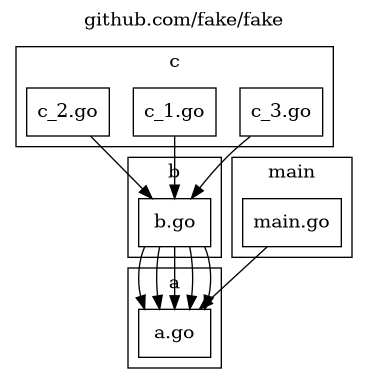
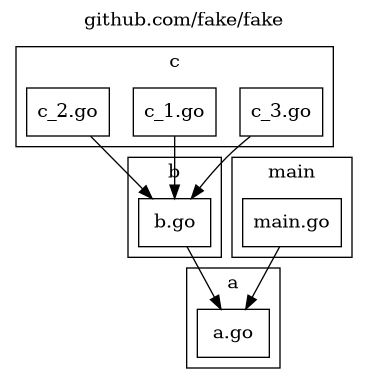
Do not show multiple edges when an import references multiple items

Changed region(s): [[0.3288, 0.625, 0.7772, 0.9688]]

diff --git a/internal/dot/file_resolution.go b/internal/dot/file_resolution.go
@@ -7,6 +7,11 @@ import (
 	"github.com/samlitowitz/godepvis/internal/color"
 )
 
+const (
+	fileResolutionEdgeDef = `
+		"%s" -> "%s" [color="%s"];`
+)
+
 func writeNodeDefsForFileResolution(buf *bytes.Buffer, palette *color.Palette, pkgs []*internal.Package) {
 	var err error
 	clusterDefHeader := `
@@ -76,10 +81,11 @@ func writeNodeDefsForFileResolution(buf *bytes.Buffer, palette *color.Palette, p
 	}
 }
 
-func writeRelationshipsForFileResolution(buf *bytes.Buffer, palette *color.Palette, pkgs []*internal.Package) {
-	var err error
-	edgeDef := `
-	"%s" -> "%s" [color="%s"];`
+func writeRelationshipsForFileResolution(showMultipleReferences bool, buf *bytes.Buffer, palette *color.Palette, pkgs []*internal.Package) {
+	writeEdgesFn := showOneReferencePerFileImportForFileResolution
+	if showMultipleReferences {
+		writeEdgesFn = showMultipleReferencesPerFileImportForFileResolution
+	}
 
 	for _, pkg := range pkgs {
 		if pkg.IsStub {
@@ -89,30 +95,65 @@ func writeRelationshipsForFileResolution(buf *bytes.Buffer, palette *color.Palet
 			if file.IsStub {
 				continue
 			}
-			for _, imp := range file.Imports {
-				if imp.Package == nil {
-					continue
-				}
-				if imp.Package.IsStub {
-					continue
-				}
-				for _, refTyp := range imp.ReferencedTypes {
-					arrowColor := palette.Base.ImportArrow
-					if _, ok := imp.ReferencedFilesInCycle[refTyp.File.UID()]; ok {
-						arrowColor = palette.Cycle.ImportArrow
-					}
-					_, err = fmt.Fprintf(
-						buf,
-						edgeDef,
-						fileNodeName(file),
-						fileNodeName(refTyp.File),
-						arrowColor.Hex(),
-					)
-					if err != nil {
-						panic(err)
-					}
-				}
+			writeEdgesFn(buf, palette, file)
+		}
+	}
+}
+
+func showMultipleReferencesPerFileImportForFileResolution(buf *bytes.Buffer, palette *color.Palette, file *internal.File) {
+	var err error
+	for _, imp := range file.Imports {
+		if imp.Package == nil {
+			continue
+		}
+		if imp.Package.IsStub {
+			continue
+		}
+		for _, refTyp := range imp.ReferencedTypes {
+			arrowColor := palette.Base.ImportArrow
+			if _, ok := imp.ReferencedFilesInCycle[refTyp.File.UID()]; ok {
+				arrowColor = palette.Cycle.ImportArrow
 			}
+			_, err = fmt.Fprintf(
+				buf,
+				fileResolutionEdgeDef,
+				fileNodeName(file),
+				fileNodeName(refTyp.File),
+				arrowColor.Hex(),
+			)
+			if err != nil {
+				panic(err)
+			}
+		}
+	}
+}
+
+func showOneReferencePerFileImportForFileResolution(buf *bytes.Buffer, palette *color.Palette, file *internal.File) {
+	var err error
+	for _, imp := range file.Imports {
+		if imp.Package == nil {
+			continue
+		}
+		if imp.Package.IsStub {
+			continue
+		}
+
+		for _, refTyp := range imp.ReferencedTypes {
+			arrowColor := palette.Base.ImportArrow
+			if _, ok := imp.ReferencedFilesInCycle[refTyp.File.UID()]; ok {
+				arrowColor = palette.Cycle.ImportArrow
+			}
+			_, err = fmt.Fprintf(
+				buf,
+				fileResolutionEdgeDef,
+				fileNodeName(file),
+				fileNodeName(refTyp.File),
+				arrowColor.Hex(),
+			)
+			if err != nil {
+				panic(err)
+			}
+			break
 		}
 	}
 }

diff --git a/internal/dot/marshal_options.go b/internal/dot/marshal_options.go
@@ -6,8 +6,9 @@ import (
 )
 
 type options struct {
-	resolution internal.Resolution
-	palette    color.Palette
+	resolution             internal.Resolution
+	palette                color.Palette
+	showMultipleReferences bool
 }
 
 type Option interface {
@@ -32,4 +33,14 @@ func (opt paletteOption) apply(opts *options) {
 
 func WithPalette(palette color.Palette) Option {
 	return paletteOption(palette)
+}
+
+type showMultipleReferencesOption bool
+
+func (opt showMultipleReferencesOption) apply(opts *options) {
+	opts.showMultipleReferences = bool(opt)
+}
+
+func WithShowMultipleReferences(showMultipleReferences bool) Option {
+	return showMultipleReferencesOption(showMultipleReferences)
 }

diff --git a/internal/dot/marshal.go b/internal/dot/marshal.go
@@ -27,7 +27,7 @@ func Marshal(modulePath string, pkgs []*internal.Package, opts ...Option) ([]byt
 	switch options.resolution {
 	case internal.FileResolution:
 		writeNodeDefsForFileResolution(buf, &options.palette, pkgs)
-		writeRelationshipsForFileResolution(buf, &options.palette, pkgs)
+		writeRelationshipsForFileResolution(options.showMultipleReferences, buf, &options.palette, pkgs)
 	case internal.PackageResolution:
 		writeNodeDefsForPackageResolution(buf, &options.palette, pkgs)
 		writeRelationshipsForPackageResolution(buf, &options.palette, pkgs)
